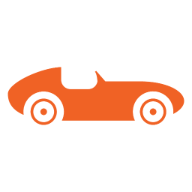
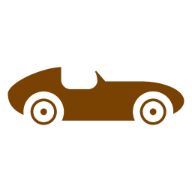
Updated Hero, navbar and trust section

Changed region(s): [[0.0312, 0.3438, 0.9688, 0.6562]]

diff --git a/components/trust.tsx b/components/trust.tsx
@@ -1,49 +1,34 @@
-import { Avatar, AvatarFallback, AvatarImage } from "./ui/avatar";
+import Image from "next/image";
+import Marquee from "react-fast-marquee";
+
+const TRUST_LOGOS = [
+  "/Chrysler.svg",
+  "/Honda.svg",
+  // "/Hyundai.svg",
+  // "/c.svg",
+  // "/Jaguar.svg",
+  "/Mercedes.svg",
+  "/Maybach.svg",
+  "/Mitsubishi.svg",
+  // "/Renault.svg",
+  // "/Tesla.svg",
+];
 
 export default function Trust() {
   return (
-    <div className="flex flex-col items-center mt-12">
-      <p className="max-w-2xl mx-auto text-center mb-4">
-        Trusted by over <strong className="text-white">50,000</strong> designers
-        and developers
-      </p>
-      <div className="flex flex-row items-center -space-x-4">
-        <Avatar className="ring-1 ring-white h-full w-full z-0 size-12">
-          <AvatarImage
-            src="https://images.pexels.com/photos/3764119/pexels-photo-3764119.jpeg"
-            alt="photo of a person"
+    <div className="max-w-5xl mx-auto">
+      <Marquee autoFill gradient gradientColor="#0f0f0f">
+        {TRUST_LOGOS.map((logo, index) => (
+          <Image
+            key={index}
+            width={100}
+            height={100}
+            src={`/logos/${logo}`}
+            alt={`Logo ${index + 1}`}
+            className="size-16 me-12"
           />
-          <AvatarFallback>IMG</AvatarFallback>
-        </Avatar>
-        <Avatar className="ring-1 ring-white h-full w-full z-10 size-12">
-          <AvatarImage
-            src="https://images.pexels.com/photos/27521031/pexels-photo-27521031/free-photo-of-retratos-da-intimidade-de-uma-tarde.jpeg?auto=compress&cs=tinysrgb&w=1260&h=750&dpr=2"
-            alt="photo of a person"
-          />
-          <AvatarFallback>IMG</AvatarFallback>
-        </Avatar>
-        <Avatar className="ring-1 ring-white h-full w-full z-20 size-12">
-          <AvatarImage
-            src="https://images.pexels.com/photos/3877800/pexels-photo-3877800.jpeg?auto=compress&cs=tinysrgb&w=1260&h=750&dpr=2"
-            alt="photo of a person"
-          />
-          <AvatarFallback>IMG</AvatarFallback>
-        </Avatar>
-        <Avatar className="ring-1 ring-white h-full w-full z-20 size-12">
-          <AvatarImage
-            src="https://images.pexels.com/photos/20709113/pexels-photo-20709113/free-photo-of-brunette-with-friendly-smile.jpeg?auto=compress&cs=tinysrgb&w=1260&h=750&dpr=2"
-            alt="photo of a person"
-          />
-          <AvatarFallback>IMG</AvatarFallback>
-        </Avatar>
-        <Avatar className="ring-1 ring-white h-full w-full z-20 size-12">
-          <AvatarImage
-            src="https://images.pexels.com/photos/19613208/pexels-photo-19613208/free-photo-of-portrait-of-a-smiling-man-in-white-t-shirt.jpeg?auto=compress&cs=tinysrgb&w=1260&h=750&dpr=2"
-            alt="photo of a person"
-          />
-          <AvatarFallback>IMG</AvatarFallback>
-        </Avatar>
-      </div>
+        ))}
+      </Marquee>
     </div>
   );
 }

diff --git a/components/hero.tsx b/components/hero.tsx
@@ -1,30 +1,22 @@
 // @components
 import { Button } from "@/components/ui/button";
 
-// @icons
-import { ArrowRightIcon } from "@heroicons/react/24/solid";
 
 export default function Hero() {
   return (
-    <header className="min-h-screen w-full h-full bg-[url('/hero-car.png')] bg-cover bg-left-bottom bg-no-repeat">
-      <div className="container mt-20">
-        <h1 className="lg:text-6xl md:text-5xl text-secondary-foreground text-3xl max-w-5xl [text-wrap:_balance] !leading-tight">
-          Find, Book, Buy, Rent & Unlock Cars Near You Super Quick & Easy
+    <header className="min-h-[70vh] md:min-h-screen w-full h-full bg-[url('/hero-car.png')] bg-cover bg-top bg-no-repeat">
+      <div className="container mt-20 text-center">
+        <h1 className="lg:text-6xl mx-auto md:text-5xl text-secondary-foreground text-3xl max-w-5xl [text-wrap:_balance] !leading-tight">
+          Comfort . Luxury . Lifestyle
         </h1>
-        <p className="max-w-[500px] mt-4 text-secondary-foreground text-balance">
+        <p className="max-w-2xl text-lg mx-auto mt-4 mb-8 text-secondary-foreground">
           Experience how a thoughtful, expert approach can align your financial
           decisions with your highest standards at every step.
         </p>
-        <div className="flex gap-4 mt-12">
           <Button>
-            Explore cars
-            <ArrowRightIcon className="size-4 stroke-2" />
-          </Button>
-          <Button variant="outline">
-            Contact Us Here
+            Find Available Cars
           </Button>
         </div>
-      </div>
     </header>
   );
 }

diff --git a/app/globals.css b/app/globals.css
@@ -14,18 +14,18 @@ body {
     --card-foreground: 0 0% 78%;
     --popover: 0 0% 14%;
     --popover-foreground: 0 0% 78%;
-    --primary: 18 87% 54%;
+    --primary: 32 97% 24%;
     --primary-foreground: 0 0% 78%;
-    --secondary: 0 0% 18%;
+    --secondary: 0 0% 6%;
     --secondary-foreground: 0 0% 91%;
-    --muted: 0 0% 18%;
+    --muted: 0 0% 6%;
     --muted-foreground: 0 0% 45.1%;
-    --accent: 0 0% 18%;
+    --accent: 0 0% 6%;
     --accent-foreground: 0 0% 9%;
     --destructive: 0 84.2% 60.2%;
     --destructive-foreground: 0 0% 98%;
-    --border: 0 0% 18%;
-    --input: 0 0% 18%;
+    --border: 0 0% 6%;
+    --input: 0 0% 6%;
     --ring: 0 0% 3.9%;
     --chart-1: 12 76% 61%;
     --chart-2: 173 58% 39%;
@@ -34,8 +34,8 @@ body {
     --chart-5: 27 87% 67%;
     --radius: 1rem;
   }
-  .dark {
-    --background: 0 0% 14%;
+  /* .dark {
+    --background: 0 0% 6%;
     --foreground: 0 0% 98%;
     --card: 0 0% 3.9%;
     --card-foreground: 0 0% 98%;
@@ -59,7 +59,7 @@ body {
     --chart-3: 30 80% 55%;
     --chart-4: 280 65% 60%;
     --chart-5: 340 75% 55%;
-  }
+  } */
 }
 
 @layer base {

diff --git a/components/ui/button.tsx b/components/ui/button.tsx
@@ -13,7 +13,7 @@ const buttonVariants = cva(
         destructive:
           "bg-destructive text-destructive-foreground hover:bg-destructive/90",
         outline:
-          "border border-primary/50 bg-primary/15 text-primary hover:bg-border hover:text-secondary-foreground",
+          "border border-primary/70 bg-primary/10 text-primary hover:bg-border hover:text-secondary-foreground",
         secondary:
           "bg-secondary text-secondary-foreground hover:bg-secondary/80",
         ghost: "hover:bg-accent hover:text-secondary-foreground",

diff --git a/components/navbar.tsx b/components/navbar.tsx
@@ -21,7 +21,7 @@ export default function Navbar() {
             className="size-12"
           />
         </Link>
-        <Button size="sm" variant="outline">
+        <Button size="sm">
           Sign In
         </Button>
       </div>
@@ -37,7 +37,7 @@ export default function Navbar() {
             />
           </Link>
           <SheetTrigger asChild>
-            <Button size="sm" variant="outline">
+            <Button size="sm">
               Sign In
             </Button>
           </SheetTrigger>

diff --git a/components/car-card.tsx b/components/car-card.tsx
@@ -1,0 +1,10 @@
+export default function CarCard() {
+  return (
+    <div className="container mx-auto my-12">
+      <div>
+        <h1 className="text-3xl font-semibold mb-2">Car Catalogue</h1>
+        <p>Explore the cars you might like</p>
+      </div>
+    </div>
+  );
+}

diff --git a/app/page.tsx b/app/page.tsx
@@ -1,3 +1,4 @@
+import CarCard from "@/components/car-card";
 import Hero from "@/components/hero";
 import Trust from "@/components/trust";
 
@@ -6,6 +7,7 @@ export default function Home() {
     <main>
       <Hero />
       <Trust />
+      <CarCard />
     </main>
   );
 }
